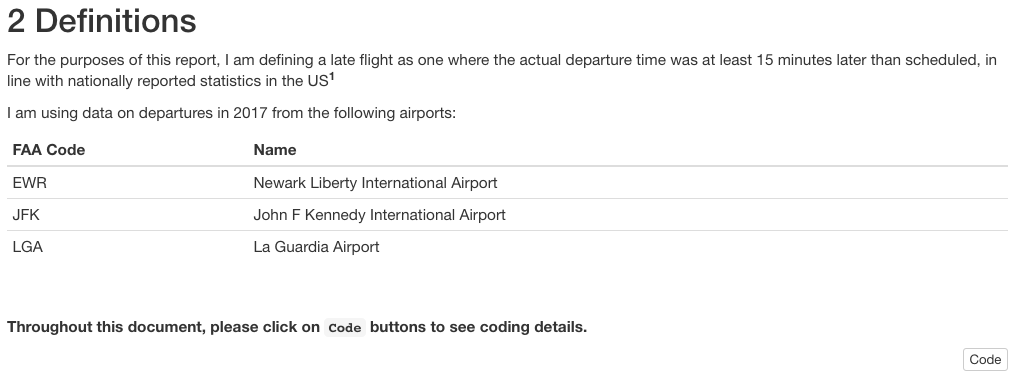
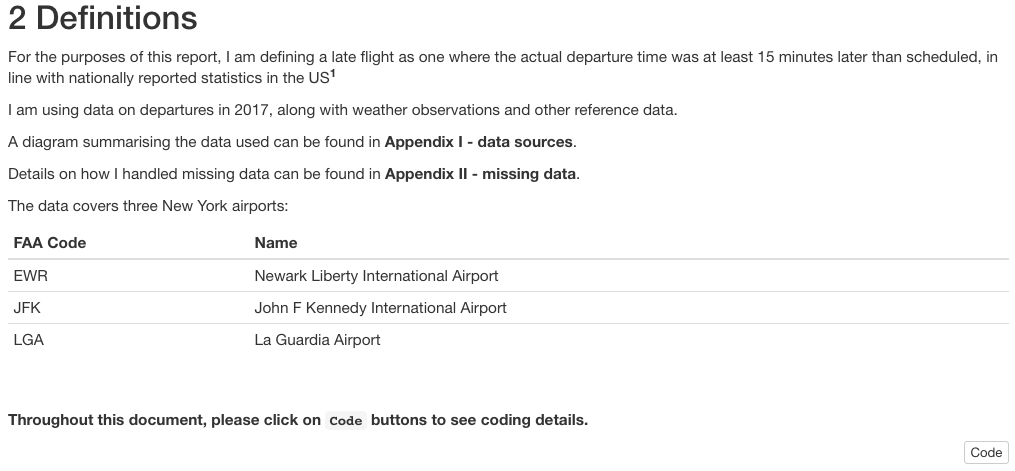
README updated

diff --git a/README.md b/README.md
@@ -68,7 +68,9 @@ Convert Fahrenheit temperatures to Celsius so they are easier for me to understa
 
 <img src = "readme_images/report8refs.png">
 
-<img src = "readme_images/report9appendix.png">
+<img src = "readme_images/report9appendixI.png">
+
+<img src = "readme_images/report9appendixII.png">
 
 ## References mentioned in the report
 
